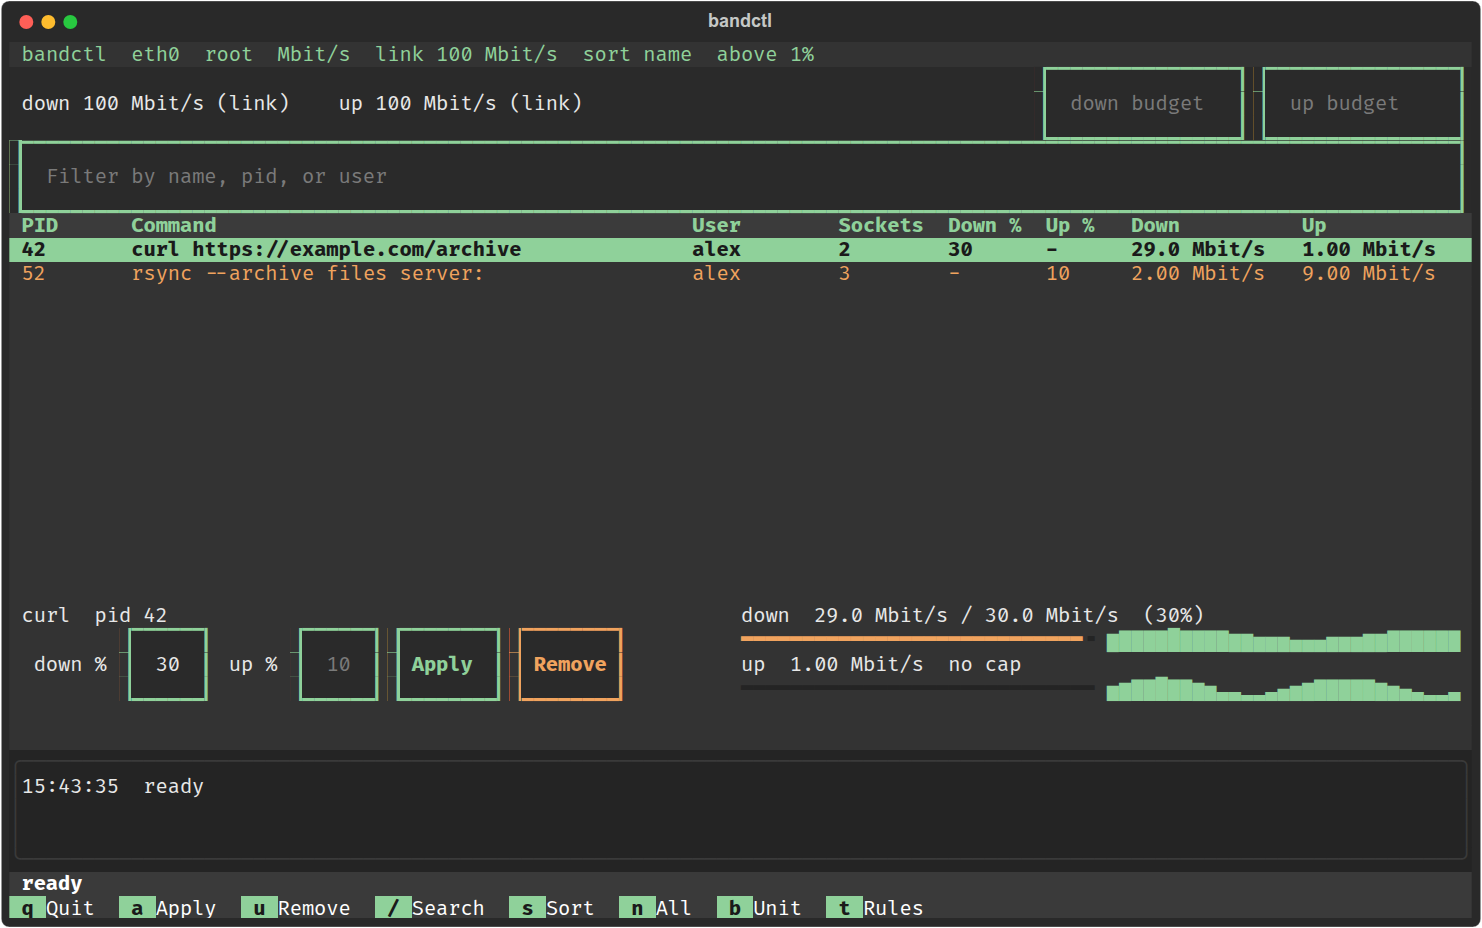
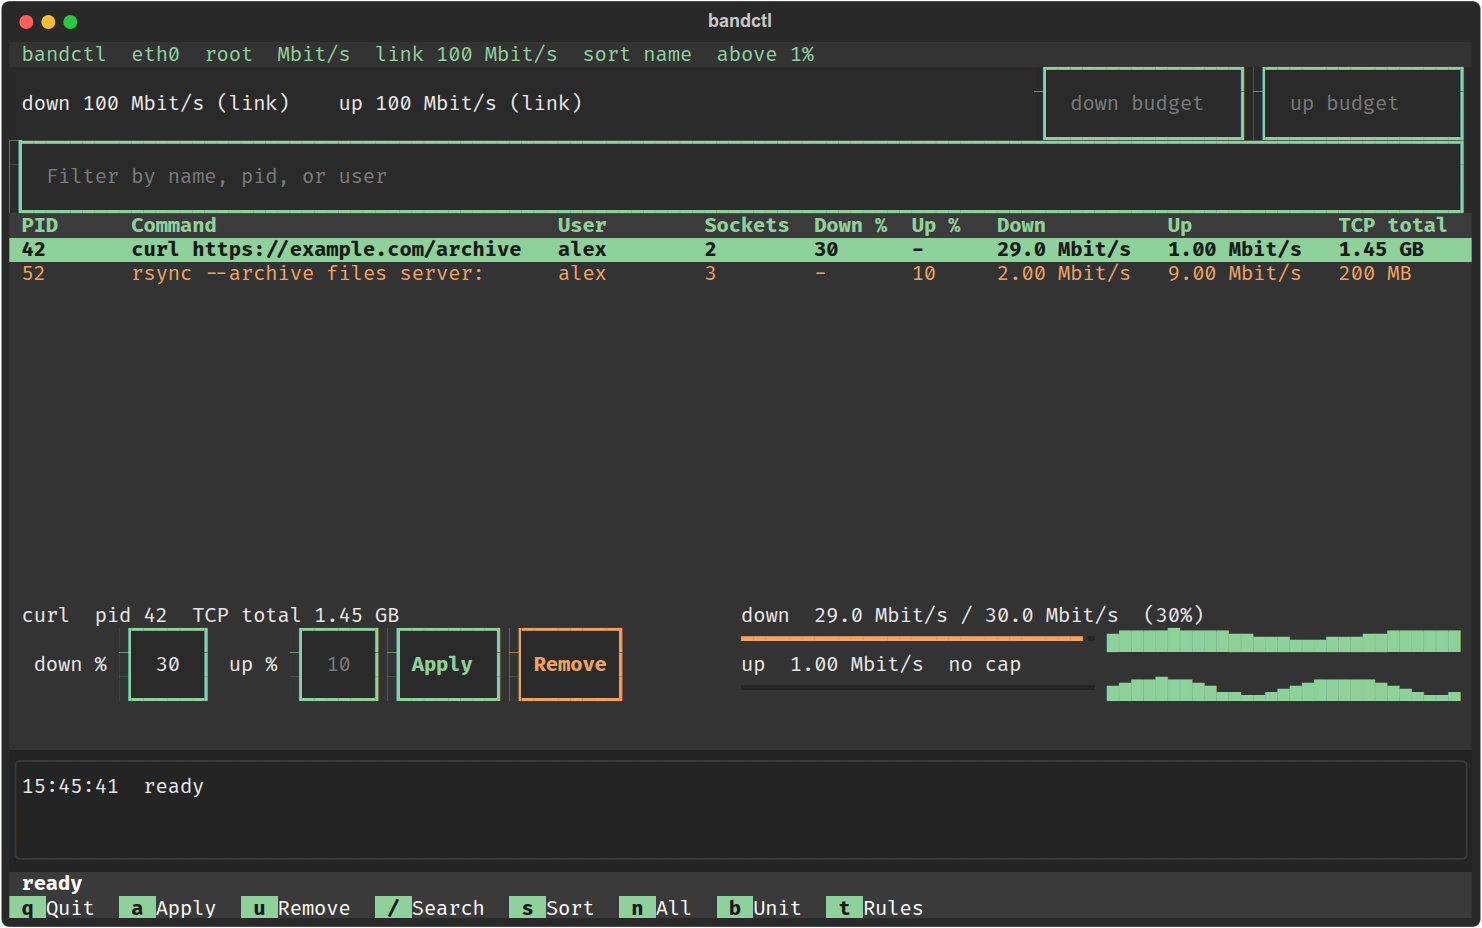
Show estimated per-process TCP session totals

diff --git a/bandctl/app.py b/bandctl/app.py
@@ -24,6 +24,7 @@ from bandctl.rates import (
     RateError,
     Unit,
     format_budget_input,
+    format_bytes,
     format_rate,
     over_commit_message,
     parse_budget,
@@ -47,6 +48,7 @@ _COLUMNS = (
     ("up_pct", "Up %", 5, False),
     ("down_rate", "Down", 12, False),
     ("up_rate", "Up", 12, False),
+    ("total", "TCP total", 9, True),
 )
 # Narrower headers and rate cells, used when the command column would
 # otherwise be squeezed below _COMMAND_MIN cells.
@@ -116,6 +118,7 @@ class BandctlApp(App):
         self._ss_warned = False
         self._procs: list[ProcessInfo] = []
         self._usage: dict[int, tuple[float, float]] = {}
+        self._session_totals: dict[int, tuple[int, int]] = {}
         self._history = RateHistory()
         self._rules: list[AutoRule] = []
         self._rule_tracker = RuleTracker()
@@ -428,6 +431,7 @@ class BandctlApp(App):
                     self._process_seen.pop(pid, None)
                     self._process_starts.pop(pid, None)
             self._sampler.retain_processes({proc.pid for proc in procs}, now)
+            self._session_totals = self._sampler.totals
             valid = self._rates_source is not None or (not self._ss_failed and self._sampler.primed)
             self._history.record(time.monotonic(), {proc.pid for proc in procs}, usage if valid else None)
             await self._apply_rules(procs)
@@ -701,6 +705,9 @@ class BandctlApp(App):
             text = "-" if not share or share.up_pct is None else str(share.up_pct)
         elif key == "down_rate":
             text = format_rate(down_bps, self.unit) if down_bps > 0 or (share and share.down_pct) else "-"
+        elif key == "total":
+            total = self._session_totals.get(proc.pid)
+            text = format_bytes(sum(total)) if total is not None else "-"
         else:
             text = format_rate(up_bps, self.unit) if up_bps > 0 or (share and share.up_pct) else "-"
         # The selected row is painted by the green cursor. Orange text on
@@ -729,7 +736,9 @@ class BandctlApp(App):
         elif proc is None:
             title = f"pid {self._selected} is gone"
         else:
-            title = f"{proc.comm}  pid {proc.pid}"
+            total = self._session_totals.get(proc.pid)
+            data = format_bytes(sum(total)) if total is not None else "--"
+            title = f"{proc.comm}  pid {proc.pid}  TCP total {data}"
         self.query_one("#detail-title", Static).update(title)
         share = self.shaper.shares.get(self._selected) if self.shaper and self._selected else None
         usage = self._usage.get(self._selected, (0.0, 0.0)) if self._selected else (0.0, 0.0)
@@ -811,7 +820,7 @@ def fit_columns(table_width: int) -> list[tuple[str, str, int]]:
     """Column keys, headers, and content widths that fit in ``table_width``.
 
     One column is reserved for the scrollbar. The command column takes whatever
-    is left. User and socket columns are the first to go.
+    is left. The total, user, and socket columns are dropped as needed.
     """
     budget = max(table_width - 1, 1)
     chosen = list(_COLUMNS)
@@ -823,7 +832,8 @@ def fit_columns(table_width: int) -> list[tuple[str, str, int]]:
         optional = [index for index, item in enumerate(chosen) if item[3]]
         if not optional:
             break
-        chosen.pop(optional[0])
+        total = next((index for index in optional if chosen[index][0] == "total"), None)
+        chosen.pop(total if total is not None else optional[0])
     if budget - overhead(chosen, 0) < _COMMAND_MIN:
         chosen = [
             (key, *_TIGHT[key], optional) if key in _TIGHT else (key, label, width, optional)

diff --git a/tests/test_app.py b/tests/test_app.py
@@ -99,6 +99,23 @@ def _app(fake, *, root=True, link_bps=100_000_000, rates=None):
 
 
 class AppTests(unittest.IsolatedAsyncioTestCase):
+    async def test_session_total_is_visible_and_stays_in_bytes_when_units_change(self):
+        app = _app(FakeShaper())
+        async with app.run_test(size=(120, 40)) as pilot:
+            app._sampler._totals[42] = (1_000_000, 500_000)
+            await app._refresh()
+            self.assertIn("1.50 MB", str(app.query_one("#detail-title", Static).render()))
+            self.assertIn("total", app._cols)
+            self.assertEqual(str(app.query_one("#procs", DataTable).get_cell("42", "total")), "1.50 MB")
+            await pilot.press("b")
+            self.assertIn("1.50 MB", str(app.query_one("#detail-title", Static).render()))
+            await pilot.resize_terminal(60, 20)
+            await pilot.pause()
+            self.assertNotIn("total", app._cols)
+            title = app.query_one("#detail-title", Static)
+            self.assertIn("1.50 MB", str(title.render()))
+            self.assertLessEqual(len(str(title.render())), title.content_size.width)
+
     async def test_filter_matches_name_and_pid_and_restores_rows(self):
         app = _app(FakeShaper())
         async with app.run_test(size=(80, 24)) as pilot:

diff --git a/README.md b/README.md
@@ -82,18 +82,20 @@ The window needs at least 60 columns and 18 rows. Below that, bandctl asks you t
 | --- | --- |
 | 108 columns or more | Meters sit beside the percent fields. |
 | Under 108 columns | Meters sit under the percent fields. |
-| Under 80 columns | Shorter header, `Dn%` and `Up%` columns, and a tighter footer. The user and socket columns go first when space runs out. |
+| Under 80 columns | Shorter header and a tighter footer. The TCP total, user, and socket columns go first when space runs out. |
 | Under 32 rows | Inputs and buttons take one row each, with a colored edge instead of a box, so the table keeps more rows. |
 | Under 22 rows | The log shows two lines. |
 | 42 rows or more | The log shows more lines. |
 
-The process table always fits the width instead of scrolling sideways. The table, the percent fields, the meters, the log, and the status line stay on screen at every supported size.
+The process table always fits the width instead of scrolling sideways. When space is tight, the percent headers become `Dn%` and `Up%`. The table, the percent fields, the meters, the log, and the status line stay on screen at every supported size.
 
 The table lists processes using more than 1% of the link. When the link speed is unknown, that 1% is of the TCP traffic measured right now, ignoring loopback. `n` lists every process. A process that already has a share stays on screen so you can remove it. Type `/` to filter by name, pid, or user. Select a row with the arrow keys or a click.
 
 Type a download percent, an upload percent, or both (1 to 100). Leave a field blank to leave that direction uncapped. Enter in a percent field, the Apply button, or `a` installs the share. `u` removes it. Limited rows are orange, except the selected row, which stays green so the text stays readable. The bar is green while usage is under the ceiling and orange when it is at the cap.
 
 Beside each bar, a small graph shows the selected process's last 60 seconds of download or upload rates. The newest sample is on the right. Each graph scales to its own highest rate in that window. At narrow widths, each character covers several seconds and shows the highest rate in that span. Blank spaces indicate spans with no samples.
+
+`TCP total` is the selected process's estimated download plus upload bytes since bandctl started. A table column shows the total when there is room. The count uses bytes even when rates use bits per second. It covers observed TCP sockets, not UDP or loopback. Short-lived or unreported sockets can be missed, and bytes already transferred on a socket first seen after startup can be included. Shared sockets count for each listed owner. Treat the total as an estimate.
 
 The header shows the interface, whether this process is root, and the active unit (`Mbit/s` or `MB/s`). `b` toggles the unit. Percents stay percents. Budgets and the usage numbers follow the toggle.
 

diff --git a/docs/USAGE.md b/docs/USAGE.md
@@ -63,6 +63,8 @@ The two budget fields are in the unit shown in the header. `b` flips between Mbi
 
 The graphs beside the bars show the selected process's download and upload rates over the last 60 seconds, with the newest sample on the right. Each graph scales to its own peak. When the graph is narrower than 60 characters, each character shows the highest rate in its group of seconds. Blank spaces indicate spans with no samples. History is kept while the process remains in the list and is discarded when it exits or its PID is reused, when the process start time is available.
 
+`TCP total` shows estimated downloaded plus uploaded bytes observed since bandctl started. The selected process always shows it in the detail line; the table includes it when there is room. `--` means no owned TCP socket has been observed. Byte counts do not change when rate units change. The first sample sets a baseline for existing sockets. A socket first seen later contributes its counters from zero, which can include earlier traffic. Sockets that open and close between samples, UDP, loopback, and sockets whose owner is not reported are not counted. A socket shared by several processes is counted for each owner. These totals are estimates, not billing records.
+
 ## Auto-apply rules
 
 Press `t` to open the rule editor. Enter part of a process name and one or both percentages, then choose Add. Rules match process names without regard to case; they do not match command arguments. The first active matching rule wins. Select a rule and choose Delete to remove it, or Close to return to the process list. Rules last until bandctl exits.

diff --git a/docs/TESTING.md b/docs/TESTING.md
@@ -14,6 +14,7 @@ python3 -m venv .venv
 | --- | --- |
 | `tests/test_rates.py` | Percent parsing (rejects 0, 101, and junk). 30% of 100 Mbit/s is 30 Mbit/s and 3.75 MB/s. Over-commit keeps the ceils and shrinks the rates. |
 | `tests/test_history.py` | One-minute rate history, missing samples, process removal, and peak grouping for narrow graphs. |
+| `tests/test_traffic.py` socket accounting | Individual socket deltas, new sockets, resets, sample gaps, PID totals, and retention of idle processes. |
 | `tests/test_rules.py` | Automatic rule validation, matching, process identity, manual overrides, and retry timing. |
 | `tests/test_schedule.py` | Daily local-time windows, including boundaries and overnight schedules. |
 | `tests/test_app.py` filtering | Case-insensitive name and PID searches, no matches, and restoring the list. |
